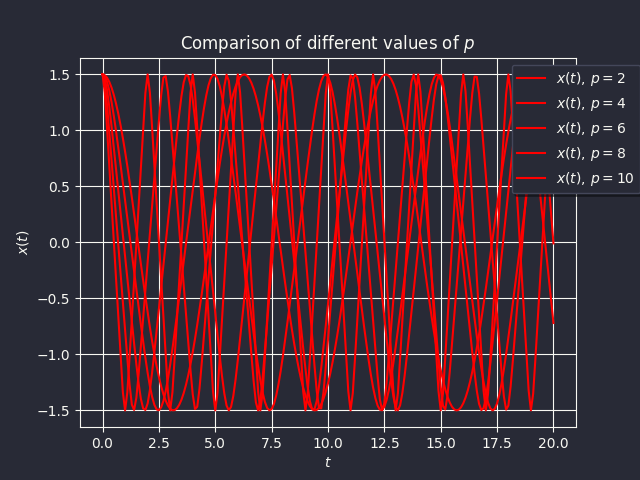
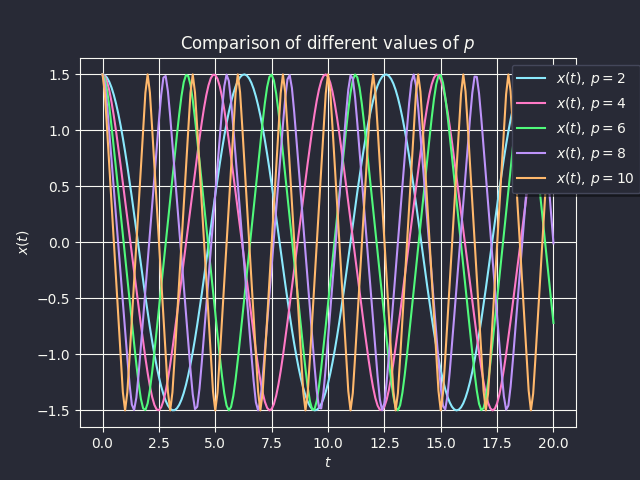
Fixed the colors of the plot

Changed region(s): [[0.1562, 0.1562, 0.875, 0.875]]

diff --git a/POMShw/main.py b/POMShw/main.py
@@ -140,7 +140,7 @@ p=[2,4,6,8,10]
 
 for P in p:
     solm2_h=odeint(model2, y0, t, args=(m,k,P))
-    plt.plot(t, solm2_h[:, 0], 'r', label='$x(t), \, p=$'+str(P))
+    plt.plot(t, solm2_h[:, 0], label='$x(t), \, p=$'+str(P))
 plt.xlabel("$t$")
 plt.ylabel("$x(t)$")
 plt.title('Comparison of different values of $p$')
